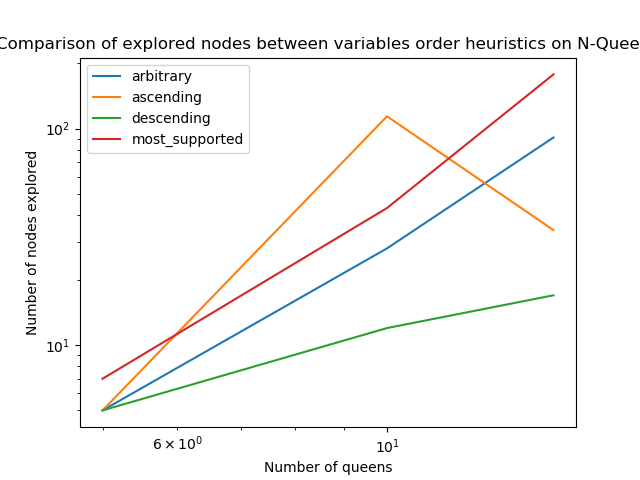
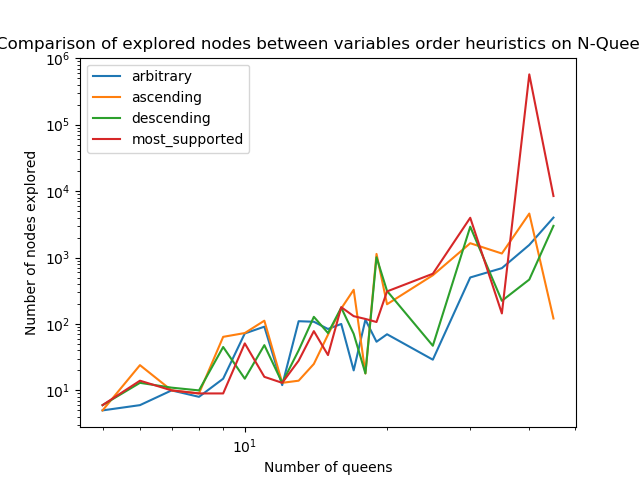
new pics

diff --git a/results/Coloring.tex b/results/Coloring.tex
@@ -24,28 +24,28 @@
 	\hline
 \textbf{Instance}  & \textbf{vertices} & \textbf{edges}  & \textbf{Chromatic Number} & \textbf{Feasible?} & \textbf{Time(s)} & \textbf{Explored Nodes} \\\hline
 
-myciel3.col & 11 & 20 & 3 & N & 0.003 & 130 \\ 
-myciel4.col & 23 & 71 & 4 & N & 0.337 & 7597 \\ 
+myciel3.col & 11 & 20 & 3 & N & 0.002 & 118 \\ 
+myciel4.col & 23 & 71 & 4 & N & 0.768 & 26561 \\ 
 myciel5.col & 47 & 236 & 6 & Y & 0.005 & 47 \\ 
-myciel6.col & 95 & 755 & 7 & Y & 0.027 & 95 \\ 
-myciel7.col & 191 & 2360 & 8 & Y & 0.158 & 191 \\ 
-anna.col & 138 & 493 & 11 & Y & 0.042 & 138 \\ 
-david.col & 87 & 406 & 11 & Y & 0.018 & 87 \\ 
-homer.col & 561 & 1629 & 13 & Y & 1.359 & 561 \\ 
-le450\_15b.col & 450 & 8169 & 15 & TO & 300.175 & 192306 \\ 
-huck.col & 74 & 301 & 11 & Y & 0.012 & 74 \\ 
-jean.col & 80 & 254 & 10 & Y & 0.012 & 80 \\ 
-games120.col & 120 & 638 & 9 & Y & 0.037 & 120 \\ 
-miles250.col & 128 & 387 & 8 & Y & 0.033 & 128 \\ 
-queen7\_7.col & 49 & 476 & 7 & Y & 0.385 & 3886 \\ 
-queen11\_11.col & 121 & 1980 & 11 & TO & 300.021 & 1019394 \\ 
-miles500.col & 128 & 1170 & 20 & Y & 0.067 & 128 \\ 
-le450\_25a.col & 450 & 8260 & 25 & Y & 1.552 & 450 \\ 
-le450\_5a.col & 450 & 5714 & 5 & TO & 300.008 & 104798 \\ 
-mulsol.i.1.col & 197 & 3925 & 49 & Y & 0.268 & 197 \\ 
-zeroin.i.1.col & 211 & 4100 & 49 & Y & 0.295 & 211 \\ 
-zeroin.i.2.col & 211 & 3541 & 30 & Y & 0.257 & 211 \\ 
-miles1000.col & 128 & 3216 & 42 & Y & 0.135 & 128 \\ 
+myciel6.col & 95 & 755 & 7 & Y & 0.02 & 95 \\ 
+myciel7.col & 191 & 2360 & 8 & Y & 0.111 & 191 \\ 
+anna.col & 138 & 493 & 11 & Y & 0.024 & 138 \\ 
+david.col & 87 & 406 & 11 & Y & 0.012 & 87 \\ 
+homer.col & 561 & 1629 & 13 & Y & 0.332 & 561 \\ 
+le450\_15b.col & 450 & 8169 & 15 & TO & 300.145 & 949642 \\ 
+huck.col & 74 & 301 & 11 & Y & 0.009 & 74 \\ 
+jean.col & 80 & 254 & 10 & Y & 0.009 & 80 \\ 
+games120.col & 120 & 638 & 9 & Y & 0.026 & 120 \\ 
+miles250.col & 128 & 387 & 8 & Y & 0.019 & 128 \\ 
+queen7\_7.col & 49 & 476 & 7 & Y & 0.009 & 72 \\ 
+queen11\_11.col & 121 & 1980 & 11 & TO & 300.016 & 2324142 \\ 
+miles500.col & 128 & 1170 & 20 & Y & 0.047 & 128 \\ 
+le450\_25a.col & 450 & 8260 & 25 & Y & 0.988 & 450 \\ 
+le450\_5a.col & 450 & 5714 & 5 & Y & 70.315 & 190197 \\ 
+mulsol.i.1.col & 197 & 3925 & 49 & Y & 0.204 & 197 \\ 
+zeroin.i.1.col & 211 & 4100 & 49 & Y & 0.227 & 211 \\ 
+zeroin.i.2.col & 211 & 3541 & 30 & Y & 0.202 & 211 \\ 
+miles1000.col & 128 & 3216 & 42 & Y & 0.117 & 128 \\ 
 
 \\
 \hline\end{tabular}

diff --git a/src/n_queens.py b/src/n_queens.py
@@ -36,7 +36,7 @@ def display_sol_nqueens(csp: CSP, N: int):
     print("Sol is feasible ? {}".format(csp.isFeasible))
     
 
-def solve_nqueens(N: int, settings=None, varOpt=3, valOpt=3):
+def solve_nqueens(N: int, settings=None, varOpt=1, valOpt=1):
     # modelization
     csp_solver = CSP()
 
@@ -130,7 +130,6 @@ def benchmarking_consistency():
     plt.xlabel("Number of queens")
     plt.ylabel("Time(s)")
     plt.savefig('../results/N-Queens_impact_consistent_times.png')
-    plt.show()
     plt.close()
 
     # generate picture nodes
@@ -144,7 +143,6 @@ def benchmarking_consistency():
     plt.xlabel("Number of queens")
     plt.ylabel("Number of nodes explored")
     plt.savefig('../results/N-Queens_impact_consistent_nodes.png')
-    plt.show()
     plt.close()
 
 
@@ -195,7 +193,6 @@ def benchmarking_heuristics(selections: list, heurictics: str):
     plt.xlabel("Number of queens")
     plt.ylabel("Time(s)")
     plt.savefig('../results/N-Queens_{}_heuristics_times.png'.format(heurictics))
-    plt.show()
     plt.close()
 
     # generate picture nodes
@@ -209,7 +206,6 @@ def benchmarking_heuristics(selections: list, heurictics: str):
     plt.xlabel("Number of queens")
     plt.ylabel("Number of nodes explored")
     plt.savefig('../results/N-Queens_{}_heuristics_nodes.png'.format(heurictics))
-    plt.show()
     plt.close()
 
 

diff --git a/src/coloring.py b/src/coloring.py
@@ -67,8 +67,8 @@ def solve_coloring(path: str, colors):
     csp_solver.set_AC4()
     csp_solver.set_FC()
 
-    csp_solver.set_variable_selection(3)
-    csp_solver.set_value_selection(3)
+    csp_solver.set_variable_selection(1)
+    csp_solver.set_value_selection(1)
 
     # solve
     isFeasible = csp_solver.solve()
@@ -125,7 +125,7 @@ if __name__ == "__main__":
 
         for instance in chromaticsKnown.items():
             nodes, edges, isFeasible, exploredNodes, exploreTime, timeOut = solve_coloring(directory + instance[0], instance[1])
-            f.write("{} & {} & {} & {} & ".format(instance[0], nodes, edges, instance[1]))
+            f.write(r"{} & {} & {} & {} & ".format(instance[0], nodes, edges, instance[1]))
             if isFeasible:
                 f.write("Y & ")
             elif timeOut:
